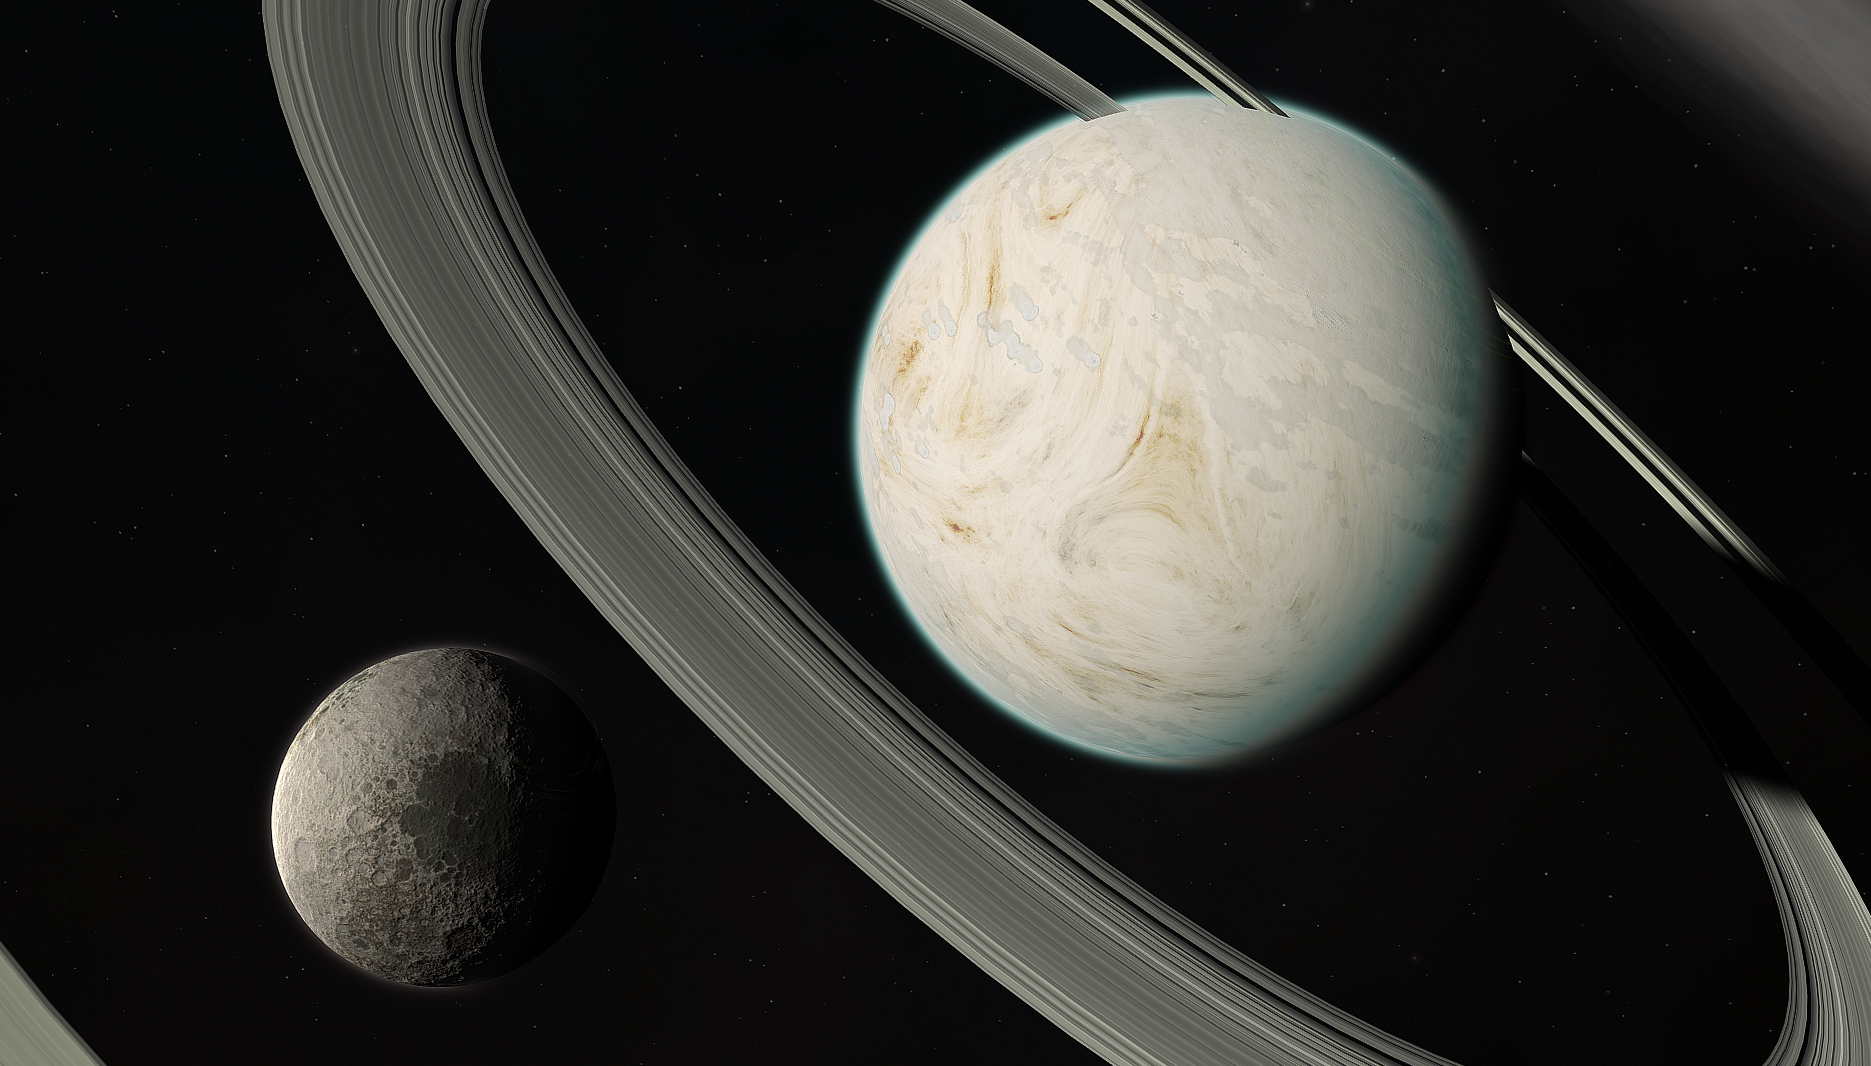
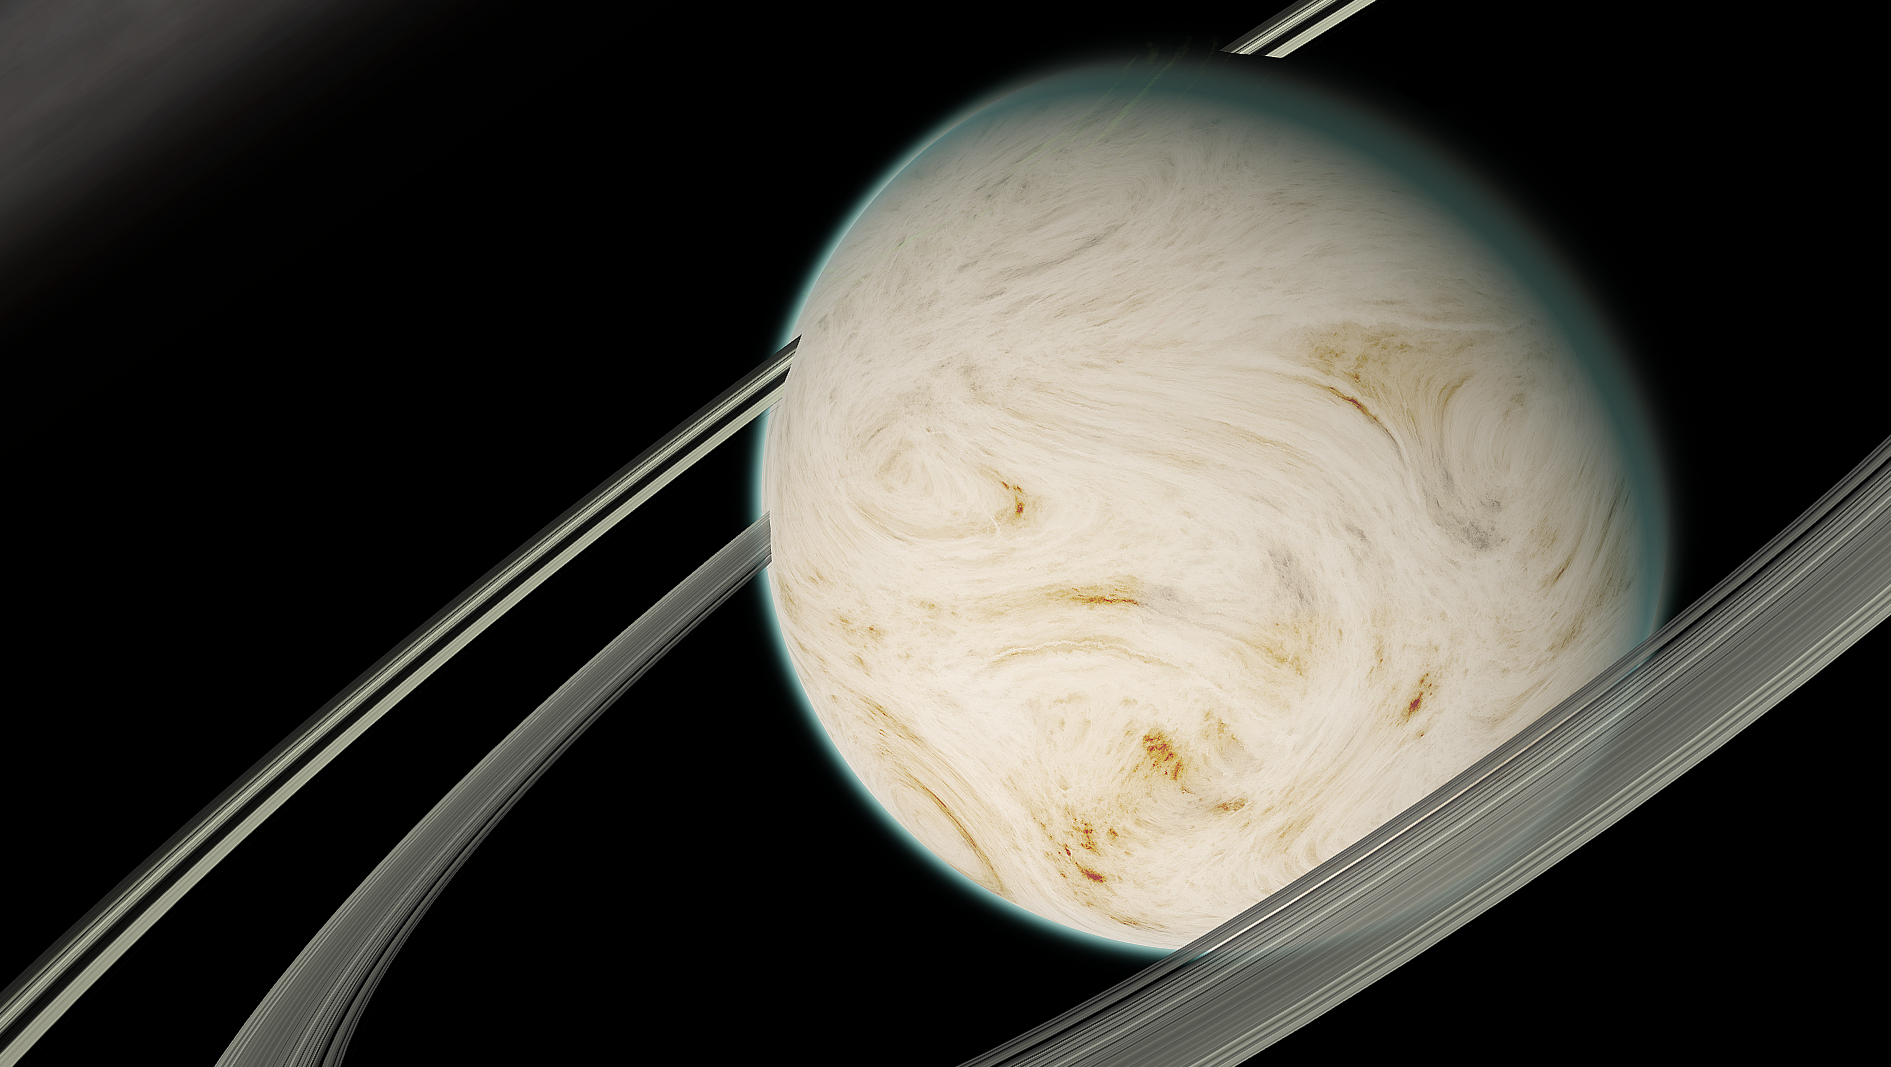
Axod Wiki (WIP But there)
Axod Wiki (Need a custom ship)

diff --git a/docs/debdeb/Axod.md b/docs/debdeb/Axod.md
@@ -1,7 +1,26 @@
 # Axod
 
+![](../assets/Axod.png)
+
 The skewed dwarf planet Axod spins so fast that its hemispheres have offset over time, giving it a unique shape and creating the highest cliffs Kerbalkind has ever seen. We're hoping to transport Kerbin's most extreme sports personalities here to perform some insane stunts with Axod's thin ring system and small moon, Umod, in the background.
 
-![](assets/concept%20art%20axod.png)
+## Object Info
+
+- Diameter: 190 Kilometers
+- Radius: 95 Kilometers
+- Semi-Major Axis: Roughly 48 million Kilometers
+- Inclination: none
+- Rotational Period (In Seconds): 4800
+- GeesASL (At Sea Level): 0.1G's
+
+## A look at Axod Close-up:
+
+Axod is Quite the place! Cliffs so tall it looks comical!
+
+![](../assets/AxodSurface2.png)
+
+![](../assets/AxodLow.png)
+
+![](../assets/AxodSurface.png)
 
 *The Systems of Promised Worlds may change in-between updates. Please notify the Dev team if this is out of date, or make an issue on this repository.*

diff --git a/docs/Debdeb System.md b/docs/Debdeb System.md
@@ -40,7 +40,7 @@ Debdeb - On the cosmic timescale, Debdeb is a baby star. 10 million years ago, a
 
 - Axod - The skewed dwarf planet Axod spins so fast that its hemispheres have offset over time, giving it a unique shape and creating the highest cliffs Kerbalkind has ever seen. We're hoping to transport Kerbin's most extreme sports personalities here to perform some insane stunts with Axod's thin ring system and small moon, Umod, in the background.
 
-![](assets/concept%20art%20axod.png)
+![](assets/Axod.png)
 
 - Umod - Umod bears many battle scars. This shattered moon of Axod is putting itself back together after a violent past. While its divets and folds don't hold a flame to its parent body, the swirling patterns and coloration make it stand out. It's oddly delicious looking...
 

diff --git a/docs/debdeb/Ovin.md b/docs/debdeb/Ovin.md
@@ -21,6 +21,9 @@ Ovin spells disaster for any lander or ship that manages to skim above it's supe
 Ovin's Surface
 ![](../assets/OvinSurface.png)
 
+A Re-Created Shot using Part Mods from low Ovin Orbit
+![](../assets/OvinShip.png)
+
 Ovin's Rings
 ![](../assets/OvinRings.png)
 
